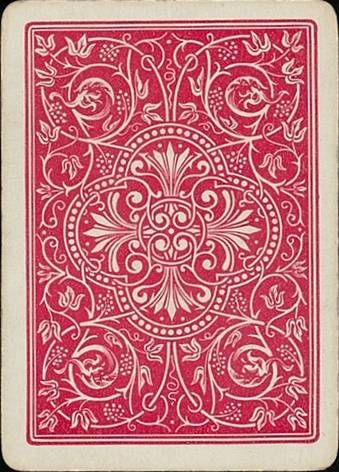
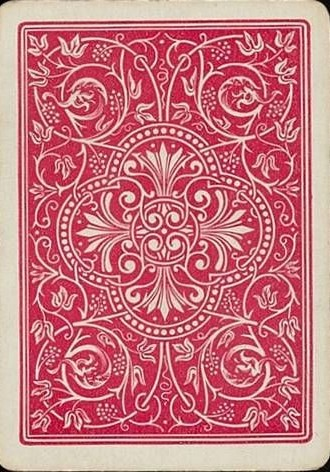
minimal work left

diff --git a/index.html b/index.html
@@ -178,90 +178,97 @@
                 <h2 class="section-title" id="projects-heading">My Deck of Work</h2>
             </div>
 
-            <article class="project" aria-label="Project: Task Manager Platform">
+            <article class="project" aria-label="Project: Atelier Platform">
                 <div class="project-visual" aria-hidden="true">♠</div>
                 <div class="project-content">
-                    <p class="project-label">Featured Work</p>
-                    <h3>Task Manager Platform</h3>
+                    <p class="project-label">Full-Stack Development</p>
+                    <h3>Atelier</h3>
                     <div class="project-tech-stack">
-                        <span class="project-tech">React</span>
                         <span class="project-tech">Node.js</span>
+                        <span class="project-tech">Express</span>
                         <span class="project-tech">MongoDB</span>
-                        <span class="project-tech">WebSockets</span>
+                        <span class="project-tech">NodeMailer </span>
+                        <span class="project-tech">WebAR</span>
+                        <span class="project-tech">GSAP</span>
                     </div>
                     <p class="project-description">
-                        A collaborative task management platform with real-time updates and team workspaces.
-                        Features include drag-and-drop task organization, deadline tracking, comment threads,
-                        and instant notifications across all devices.
+                        A full-stack web platform connecting artists and buyers, enabling users to browse,
+                        purchase, and request custom artwork. Features include authentication, wishlist,
+                        and a commission system with server-side email handling using NodeMailer, along
+                        with a WebAR feature for visualizing products in real space.
                     </p>
-                    <a class="project-link" href="#" aria-label="View Task Manager Platform on GitHub">
-                        <i class="bi bi-github" aria-hidden="true"></i> View on GitHub
-                    </a>
+                    <a class="project-link" href="#">GitHub</a>
+                    <a class="project-link project-link--secondary" href="#">Visit Website</a>
                 </div>
             </article>
 
-            <article class="project" aria-label="Project: Weather Dashboard">
+
+
+            <article class="project" aria-label="Project: SeedSync App">
                 <div class="project-visual project-visual--red" aria-hidden="true">♥</div>
                 <div class="project-content">
-                    <p class="project-label">Data Visualization</p>
-                    <h3>Weather Dashboard</h3>
+                    <p class="project-label">UX / System Design</p>
+                    <h3>SeedSync</h3>
                     <div class="project-tech-stack">
-                        <span class="project-tech">Vue.js</span>
-                        <span class="project-tech">D3.js</span>
-                        <span class="project-tech">Weather API</span>
+                        <span class="project-tech">Figma</span>
+                        <span class="project-tech">IoT Concepts</span>
+                        <span class="project-tech">User Research</span>
                     </div>
                     <p class="project-description">
-                        Interactive weather visualization featuring 7-day forecasts, historical data analysis,
-                        and location-based alerts. Custom D3.js visualizations display temperature trends,
-                        precipitation patterns, and wind data.
+                        An IoT-based greenhouse management system designed to monitor and control environmental
+                        conditions such as temperature, humidity, and soil moisture. The project focused on
+                        user research, data-driven design decisions, and building an intuitive interface for
+                        real-time monitoring and automation.
                     </p>
-                    <a class="project-link" href="#" aria-label="View Weather Dashboard on GitHub">
-                        <i class="bi bi-github" aria-hidden="true"></i> View on GitHub
-                    </a>
+                    <a class="project-link" href="#">View Prototype</a>
                 </div>
             </article>
 
-            <article class="project" aria-label="Project: E-commerce Platform">
+
+
+            <article class="project" aria-label="Project: IoT Exhibition Website">
                 <div class="project-visual" aria-hidden="true">♣</div>
                 <div class="project-content">
-                    <p class="project-label">Full-Stack Development</p>
-                    <h3>E-commerce Platform</h3>
+                    <p class="project-label">Frontend Development</p>
+                    <h3>IoT Exhibition Archive</h3>
                     <div class="project-tech-stack">
-                        <span class="project-tech">Next.js</span>
-                        <span class="project-tech">Stripe</span>
-                        <span class="project-tech">PostgreSQL</span>
+                        <span class="project-tech">JavaScript</span>
+                        <span class="project-tech">HTML</span>
+                        <span class="project-tech">CSS</span>
+                        <span class="project-tech">Three.js</span>
+                        <span class="project-tech">GSAP</span>
                     </div>
                     <p class="project-description">
-                        Full-stack online store with secure payment processing through Stripe, comprehensive
-                        inventory management system, and detailed analytics dashboard. Optimized with Next.js
-                        server-side rendering for exceptional performance.
+                        A digital exhibition platform designed to showcase student projects, combining
+                        interactive sections, behind-the-scenes content, and user comments. Built with
+                        a focus on animation and spatial interaction using Three.js and GSAP.
                     </p>
-                    <a class="project-link" href="#" aria-label="View E-commerce Platform on GitHub">
-                        <i class="bi bi-github" aria-hidden="true"></i> View on GitHub
-                    </a>
+                    <a class="project-link" href="#">GitHub</a>
+                    <a class="project-link project-link--secondary" href="#">Visit Website</a>
                 </div>
             </article>
 
-            <article class="project" aria-label="Project: Portfolio Generator">
+
+
+            <article class="project" aria-label="Project: Gesture Control System">
                 <div class="project-visual project-visual--red" aria-hidden="true">♦</div>
                 <div class="project-content">
-                    <p class="project-label">Web Application</p>
-                    <h3>Portfolio Generator</h3>
+                    <p class="project-label">Computer Vision</p>
+                    <h3>Hand Gesture Game Control</h3>
                     <div class="project-tech-stack">
                         <span class="project-tech">Python</span>
-                        <span class="project-tech">Flask</span>
-                        <span class="project-tech">Jinja2</span>
+                        <span class="project-tech">OpenCV</span>
+                        <span class="project-tech">MediaPipe</span>
                     </div>
                     <p class="project-description">
-                        Template-based portfolio website generator with customizable themes, color schemes,
-                        and typography pairings. Users can preview changes in real-time and export static
-                        HTML/CSS for easy deployment.
+                        A computer vision experiment that uses hand tracking to control gameplay actions
+                        in real time. Built using MediaPipe for gesture detection, exploring how physical
+                        movement can be translated into interactive digital input.
                     </p>
-                    <a class="project-link" href="#" aria-label="View Portfolio Generator on GitHub">
-                        <i class="bi bi-github" aria-hidden="true"></i> View on GitHub
-                    </a>
+                    <a class="project-link" href="#">GitHub</a>
                 </div>
             </article>
+
 
         </section>
 
@@ -290,22 +297,7 @@
 
                     <!-- Card 0: Intro — not a link, rightmost slot by default -->
                     <div class="fan-card" data-card-index="0" role="presentation" aria-hidden="true">
-                        <div class="fan-card-corner">
-                            <span class="fan-card-corner-val">★</span>
-                            <span class="fan-card-corner-suit">♠</span>
-                        </div>
-                        <div class="fan-card-center fan-card-center--intro">
-                            
-                            <p class="fan-intro-tagline">Find me<br>where it<br>matters.</p>
-                            
-                        </div>
-                        <div class="fan-card-bottom">
-                            
-                            <div class="fan-card-corner fan-card-corner--flipped">
-                                <span class="fan-card-corner-val">★</span>
-                                <span class="fan-card-corner-suit">♠</span>
-                            </div>
-                        </div>
+                        <img class="card-img" src="assets/back.jpg" alt="Card 1" class="card-img">
                     </div>
 
                     <!-- Card 1: Email -->

diff --git a/css/responsive.css b/css/responsive.css
@@ -92,7 +92,7 @@
         height: auto;
         flex-shrink: 0;
         justify-content: center;
-        gap: 2rem;
+        gap: 2.3rem;
         margin-bottom: 1.5rem;
     }
 
@@ -102,7 +102,7 @@
 
     .hero-description {
         max-width: 90%;
-        font-size: 1.1rem;
+        font-size: 1.7rem;
     }
 
     /* About */
@@ -147,6 +147,11 @@
     .fan-card-icon {
         font-size: 2.2rem;
     }
+
+     .fan-card[data-card-index="0"] {
+
+    width: 170px
+}
 }
 
 /* ═══════════════════════════════════════════════════════
@@ -164,6 +169,7 @@
     .hero-divider {
         font-size: 1rem;
         word-spacing: 3px;
+        justify-content: space-around;
     }
 
     .hero-divider-left,
@@ -173,11 +179,11 @@
 
     .hero-divider-right-text,
     .hero-divider-left-text {
-        font-size: 0.6rem;
+        font-size: 0.8rem;
     }
 
     .hero-title {
-        font-size: 15vw;
+        font-size: 17vw;
     }
 
     .hero-cards {
@@ -190,7 +196,7 @@
 
     .hero-description {
         max-width: 100%;
-        font-size: 1rem;
+        font-size: 1.3rem;
     }
 
     .hero-tag {
@@ -259,6 +265,10 @@
     .fan-intro-tagline {
         font-size: 1rem;
     }
+     .fan-card[data-card-index="0"] {
+
+    width: 135px
+}
 }
 
 /* ═══════════════════════════════════════════════════════
@@ -287,6 +297,8 @@
         width: 95px;
         padding: 0.6rem;
     }
+
+
 
     .fan-card-corner-val {
         font-size: 0.95rem;

diff --git a/hero.js b/hero.js
@@ -4,12 +4,11 @@ gsap.registerPlugin(ScrollTrigger);
 gsap.set(".hero-title", { opacity: 0, y: 150, scale:1.5});
 gsap.set(".hero-divider", { opacity: 0, y: -20 });
 gsap.set(".site-nav", { opacity: 0, y: -20 });
-
+const w = window.innerWidth;
 // gsap.set(".hero-cards .card", { x: 70, opacity: 0 });
-gsap.set(".hero-description", { opacity: 0, x: -20,  y: () => {
-        const w = window.innerWidth;
-        if (w < 576) return 70;
-        if (w < 992) return 50;
+gsap.set(".hero-description", { opacity: 0, x: -20,  y: () => {    
+        if (w < 576) return 50;
+        if (w < 992) return 35;
         return 0;
     } });
 gsap.set(".hero-cards .card", { y: 10, opacity: 0 });
@@ -33,10 +32,9 @@ tl.to(".hero-title", {
 
 tl.to(".hero-title", {
    y: () => {
-        const w = window.innerWidth;
 
-        if (w < 576) return -190;    
-        if (w < 992) return -150;    
+        if (w < 576) return -200;    
+        if (w < 992) return -250;    
         return -45;                  
     },
     duration: 0.6
@@ -70,7 +68,12 @@ tl.to(".hero-description", {
 
 
 tl.to(".hero-cards .card", {
-    y: 0,
+   y: () => {
+
+        if (w < 576) return -170;    
+        if (w < 992) return -240;    
+        return -45;                  
+    },
     opacity: 1,
     scale: 1,
     stagger: 0.15,
@@ -79,7 +82,7 @@ tl.to(".hero-cards .card", {
 }, "-=1.3");
 
 gsap.to(".hero-cards .card", {
-    y: -6,
+    yPercent: -5,
     duration: .9,
     ease: "sine.inOut",
     yoyo: true,

diff --git a/css/contact.css b/css/contact.css
@@ -79,13 +79,27 @@
     color: inherit;
 }
 
+.fan-card[data-card-index="0"] {
+    padding: 0;
+    overflow: hidden;
+    width: 220px
+}
+
+.fan-card[data-card-index="0"] .card-img {
+    width: 150%;
+    height: 150%;
+    object-fit: cover;
+    border-radius: var(--radius-lg);
+    display: block;
+}
+
 .fan-card:focus-visible {
     outline: 2.5px solid var(--dark);
     outline-offset: 4px;
 }
 
 
-.fan-card[data-card-index="0"] { background-color: var(--dark); color: var(--cream); }
+/* .fan-card[data-card-index="0"] { background-color: var(--dark); color: var(--cream); } */
 .fan-card[data-card-index="1"] { background-color: var(--accent-1); }
 .fan-card[data-card-index="2"] { background-color: var(--accent-2); }
 .fan-card[data-card-index="3"] { background-color: var(--accent-3); }

diff --git a/css/hero.css b/css/hero.css
@@ -129,7 +129,7 @@
 
 .hero-description p {
     padding-top: 10px;
-    font-weight: 600;
+    font-weight: 300;
 }
 
 .hero-tag {
@@ -138,5 +138,5 @@
     padding: 5px 10px;
     border-radius: 5px;
     border: none;
-    font-size: 0.8rem;
+    font-size: 1rem;
 }
